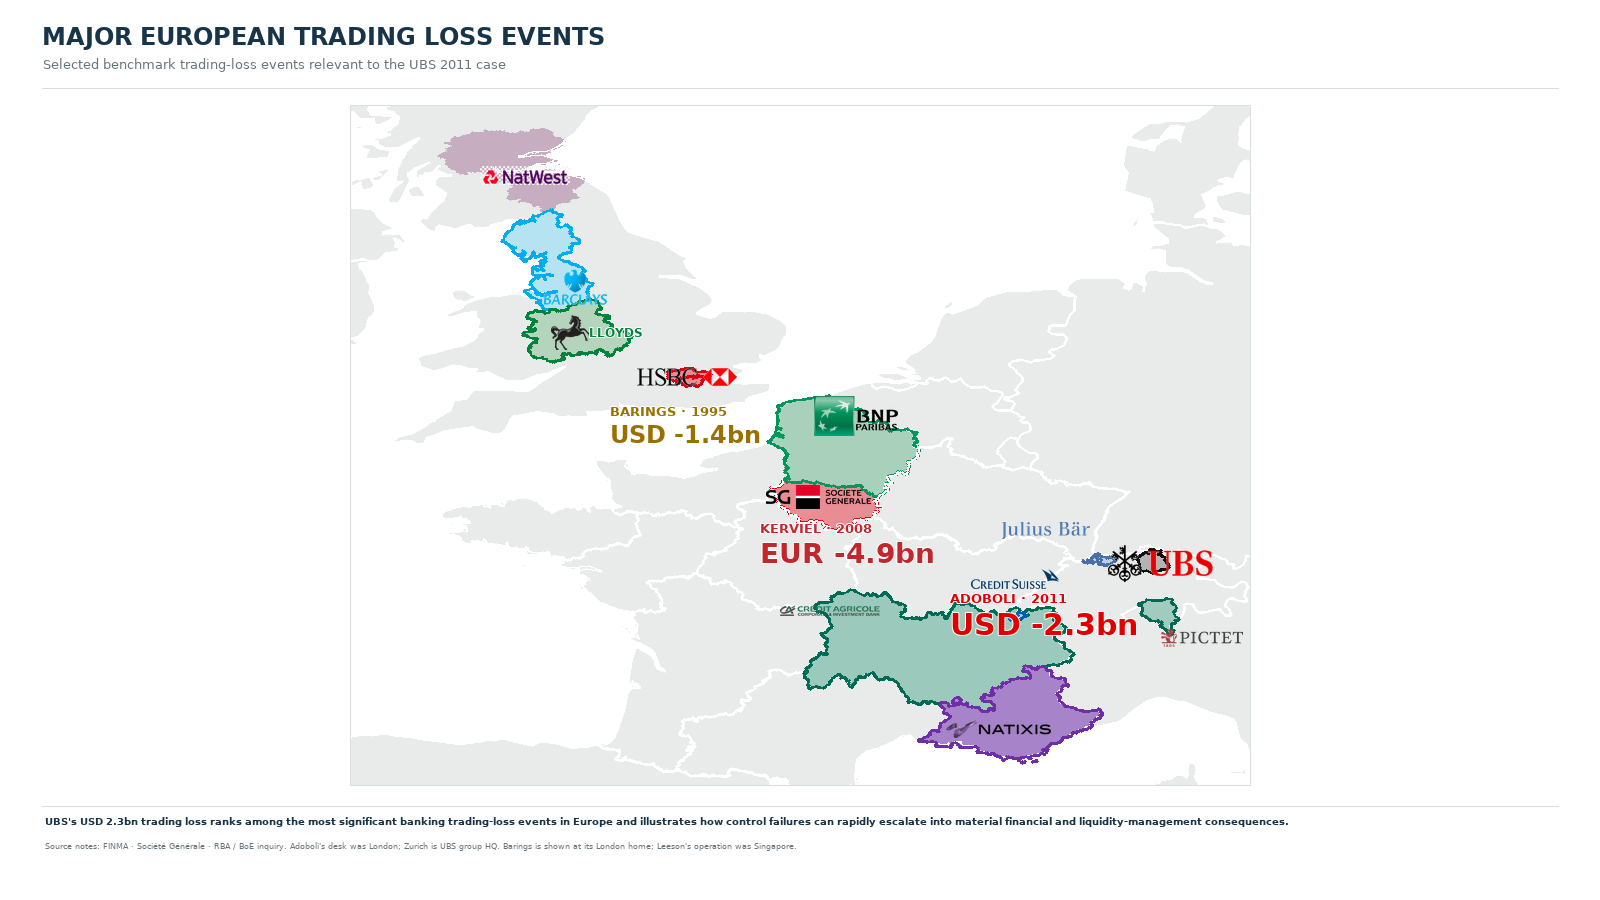
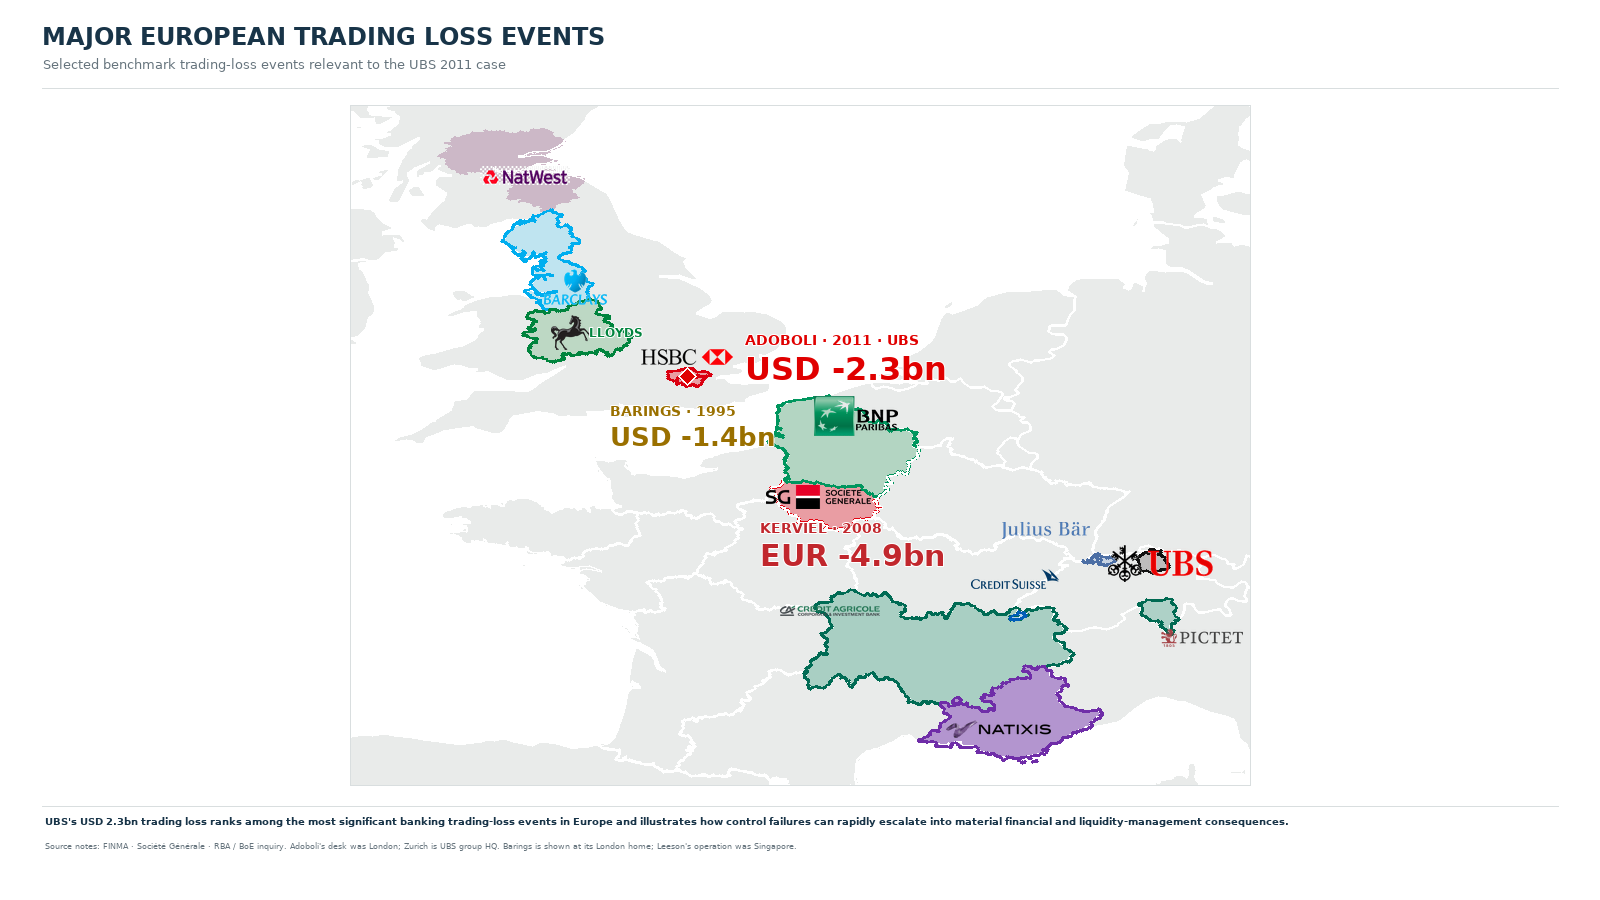
Soften territory fills and spotlight Adoboli location

Changed region(s): [[0.375, 0.3733, 0.5938, 0.4978], [0.4688, 0.56, 0.5938, 0.6533], [0.5938, 0.6533, 0.7188, 0.7156]]

diff --git a/documents/build_ubs_event_context_map.py b/documents/build_ubs_event_context_map.py
@@ -1,6 +1,6 @@
 from pathlib import Path
 import json
-from PIL import Image, ImageDraw, ImageFont
+from PIL import Image, ImageDraw, ImageFont, ImageColor
 
 ROOT = Path(__file__).resolve().parent
 ASSETS = ROOT / 'assets'
@@ -143,7 +143,10 @@ def polygons_of(feature):
 region_layer = Image.new('RGBA', (W, H), (0, 0, 0, 0))
 rd = ImageDraw.Draw(region_layer)
 for feature, bank_key, _ in territories:
-    fill = territory_styles[bank_key][0] if bank_key else LAND
+    if bank_key:
+        fill = (*ImageColor.getrgb(territory_styles[bank_key][0]), 210)
+    else:
+        fill = LAND
     for polygon in polygons_of(feature):
         points = [xy(lon, lat) for lon, lat in polygon[0]]
         rd.polygon(points, fill=fill)
@@ -206,7 +209,7 @@ def place_bank(key, lon, lat, logo_size, dx=0, dy=0, lloyds=False):
 place_bank('NATWEST', -3.1883, 55.9533, (90, 28))
 place_bank('BARCLAYS', -2.2426, 53.4808, (82, 36))
 place_bank('LLOYDS', -1.8904, 52.4862, (88, 32), lloyds=True)
-place_bank('HSBC', -0.1276, 51.5072, (100, 30))
+place_bank('HSBC', -0.1276, 51.5072, (92, 28), dy=-20)
 # France
 place_bank('BNP', 3.0573, 50.6292, (90, 40))
 place_bank('SG', 2.3522, 48.8566, (105, 36))
@@ -218,17 +221,29 @@ place_bank('JULIUS', 7.59, 47.56, (88, 25), dx=-50, dy=-25)
 place_bank('UBS', 8.5417, 47.3769, (105, 38), dx=14)
 place_bank('PICTET', 8.95, 46.0, (82, 24), dx=34, dy=12)
 
-# Event highlights use floating type only, without circles or containers.
+# An angular red plot marks the actual London desk location of the Adoboli event.
+def event_plot(lon, lat, color, size=9):
+    global d
+    px, py = xy(lon, lat)
+    d = ImageDraw.Draw(im)
+    outer = [(px, py-size), (px+size, py), (px, py+size), (px-size, py)]
+    inner = [(px, py-size+2), (px+size-2, py), (px, py+size-2), (px-size+2, py)]
+    d.polygon(outer, fill=PAPER)
+    d.polygon(inner, fill=color)
+
+event_plot(-0.1276, 51.5072, '#E00000')
+
+# Event highlights use floating type only, without boxes or bank-territory fills.
 def event_text(x, y, label, amount, color, label_size, amount_size):
     global d
     d = ImageDraw.Draw(im)
     text(d, (x, y), label, label_size, color, bold=True, stroke_width=1)
     text(d, (x, y + label_size + 4), amount, amount_size, color, bold=True, stroke_width=1)
 
-# Compact event notes sit next to their source bank logos; they are events, not territory marks.
-event_text(610, 403, 'BARINGS · 1995', 'USD -1.4bn', '#9A7000', 13, 24)
-event_text(760, 520, 'KERVIEL · 2008', 'EUR -4.9bn', '#C1272D', 13, 28)
-event_text(950, 590, 'ADOBOLI · 2011', 'USD -2.3bn', '#E00000', 13, 30)
+# Compact event callouts remain distinct from bank territory fills.
+event_text(610, 403, 'BARINGS · 1995', 'USD -1.4bn', '#9A7000', 14, 26)
+event_text(760, 520, 'KERVIEL · 2008', 'EUR -4.9bn', '#C1272D', 14, 30)
+event_text(745, 332, 'ADOBOLI · 2011 · UBS', 'USD -2.3bn', '#E00000', 14, 32)
 
 # Minimal footnote retains the factual distinction between Zurich HQ and the London desk.
 d.line((42, 806, 1558, 806), fill=GRID, width=1)

diff --git a/documents/ubs-event-context-map-sources.md b/documents/ubs-event-context-map-sources.md
@@ -42,7 +42,7 @@ The map retains the 12 requested bank logos at their city locations, but omits e
 | Julius Baer | Basel-Stadt and Basel-Landschaft | Muted blue, distinct from Credit Suisse |
 | Pictet | Canton of Ticino | Green |
 
-Bank wordmarks are enlarged and float directly on the map without circular markers, halos or white logo cards. The north-up map uses a flat equirectangular projection and is recentered on the bank territories, excluding the empty Eastern Europe / Russia area. Barings is shown only as a compact gold event callout near HSBC/London; it is not treated as a bank territory, and the London placement denotes Barings' institutional home, not Leeson's Singapore trading activity. The compact event callouts sit beside their source logos: Barings near HSBC/London, Kerviel below Société Générale/Paris, and Adoboli close to UBS/Zurich.
+Bank wordmarks are enlarged and float directly on the map without circular markers, halos or white logo cards. Territory fills use slightly translucent tints so logos remain clear; their outlines retain saturated bank colours. The north-up map uses a flat equirectangular projection and is recentered on the bank territories, excluding the empty Eastern Europe / Russia area. Barings is shown only as a compact gold event callout near HSBC/London, not as a bank territory; its London placement denotes the institutional home, not Leeson's Singapore trading activity. Kerviel sits below Société Générale/Paris. Adoboli is highlighted with a small red diamond at the London desk location and a compact UBS event callout; the UBS logo remains at Zurich headquarters.
 
 Territory geometry sources:
 
